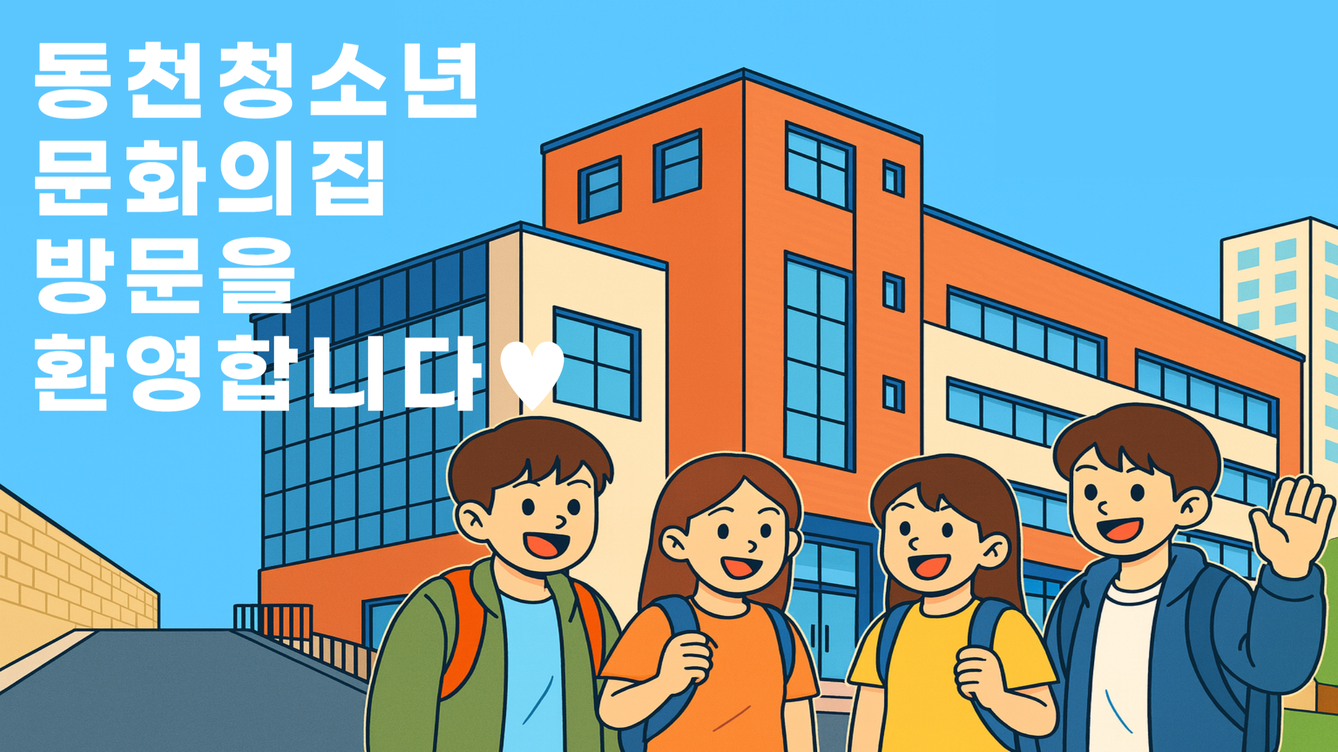
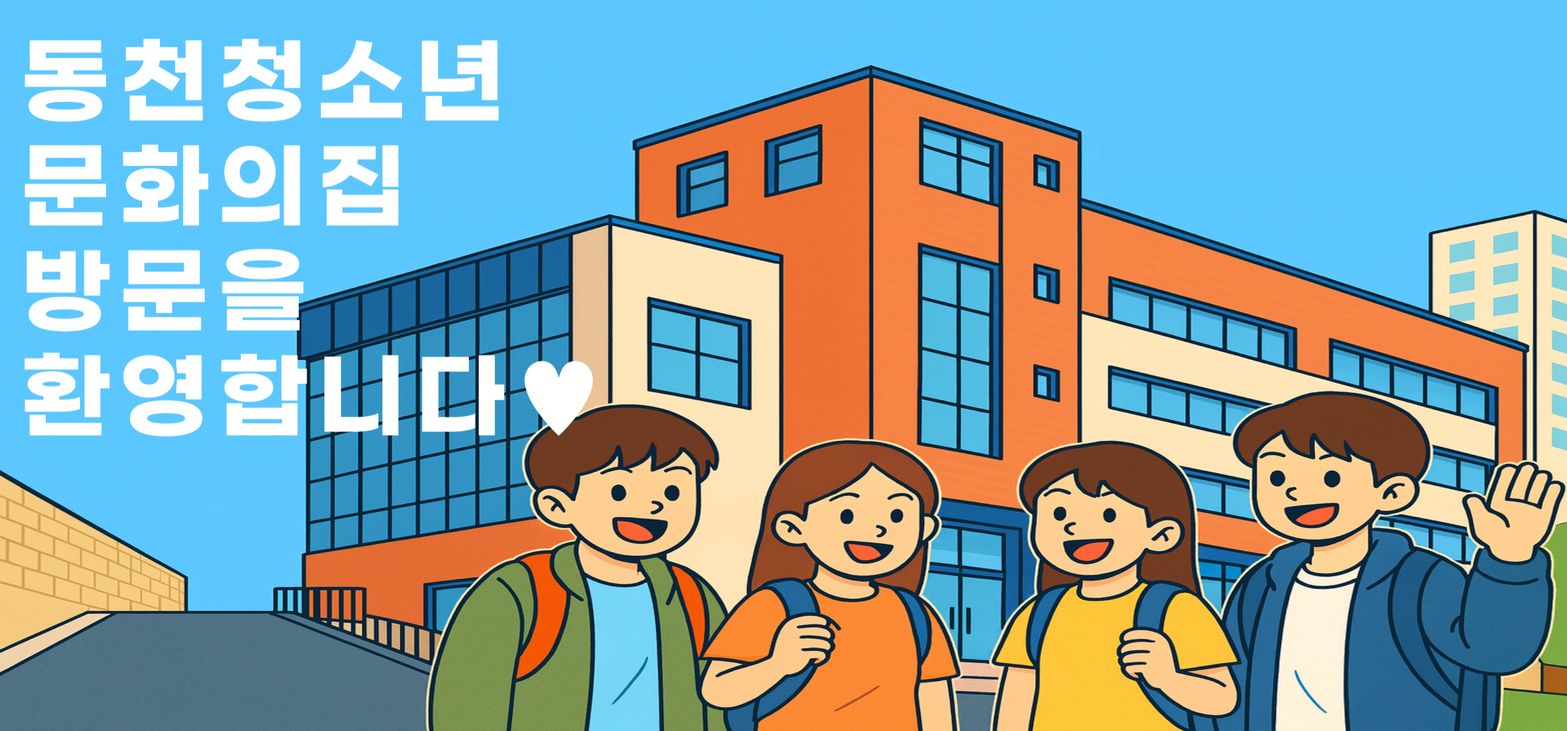
171

Changed region(s): [[0.0, 0.0307, 0.4375, 0.6143]]

diff --git a/public/styles.css b/public/styles.css
@@ -25,9 +25,9 @@ body {
 .banner-section {
     position: relative;
     width: 100%;
-    height: 40vh;
-    min-height: 280px;
-    max-height: 400px;
+    height: 35vh;
+    min-height: 250px;
+    max-height: 350px;
     overflow: hidden;
     border-radius: 0 0 30px 30px;
     box-shadow: 0 8px 32px rgba(0,0,0,0.1);
@@ -42,13 +42,12 @@ body {
 }
 
 .main-building-img {
-    width: 120%;
+    width: 100%;
     height: 100%;
-    object-fit: cover;
+    object-fit: contain;
     object-position: center center;
     display: block;
     background-color: #f0f0f0;
-    margin-left: -10%;
 }
 
 
@@ -211,6 +210,8 @@ body {
     border-radius: 15px;
     padding: 12px;
     box-shadow: 0 2px 8px rgba(0,0,0,0.05);
+    flex: 1;
+    max-width: 400px;
 }
 
 .info-header {
@@ -218,7 +219,7 @@ body {
     justify-content: space-between;
     align-items: center;
     margin-bottom: 15px;
-    min-height: 60px;
+    min-height: 70px;
 }
 
 .info-header .info-title {
@@ -354,9 +355,9 @@ body {
 /* 반응형 디자인 */
 @media (max-width: 768px) {
     .banner-section {
-        height: 35vh;
-        min-height: 250px;
-        max-height: 350px;
+        height: 30vh;
+        min-height: 200px;
+        max-height: 280px;
     }
     
     
@@ -424,9 +425,9 @@ body {
 
 @media (max-width: 480px) {
     .banner-section {
-        height: 30vh;
-        min-height: 180px;
-        max-height: 250px;
+        height: 25vh;
+        min-height: 160px;
+        max-height: 220px;
     }
     
     .info-content {
